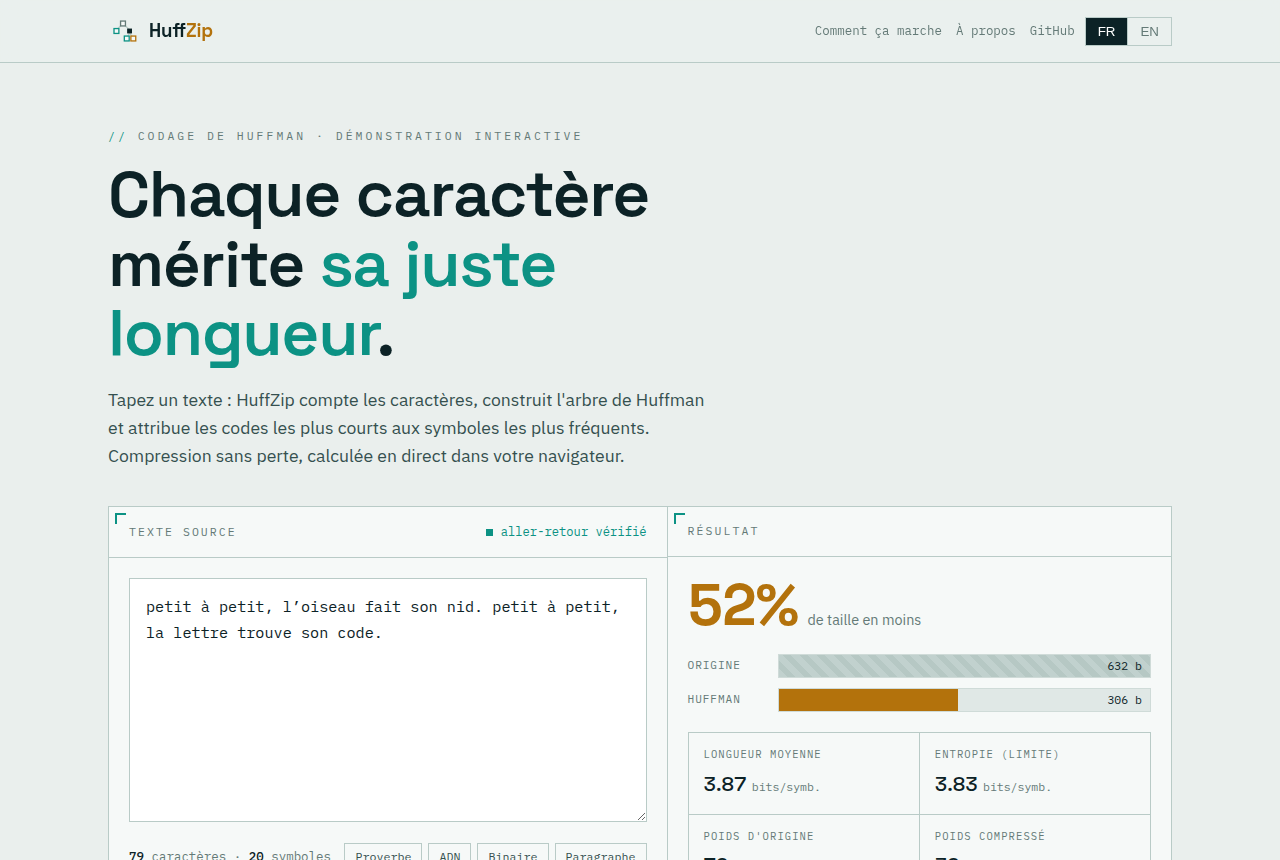
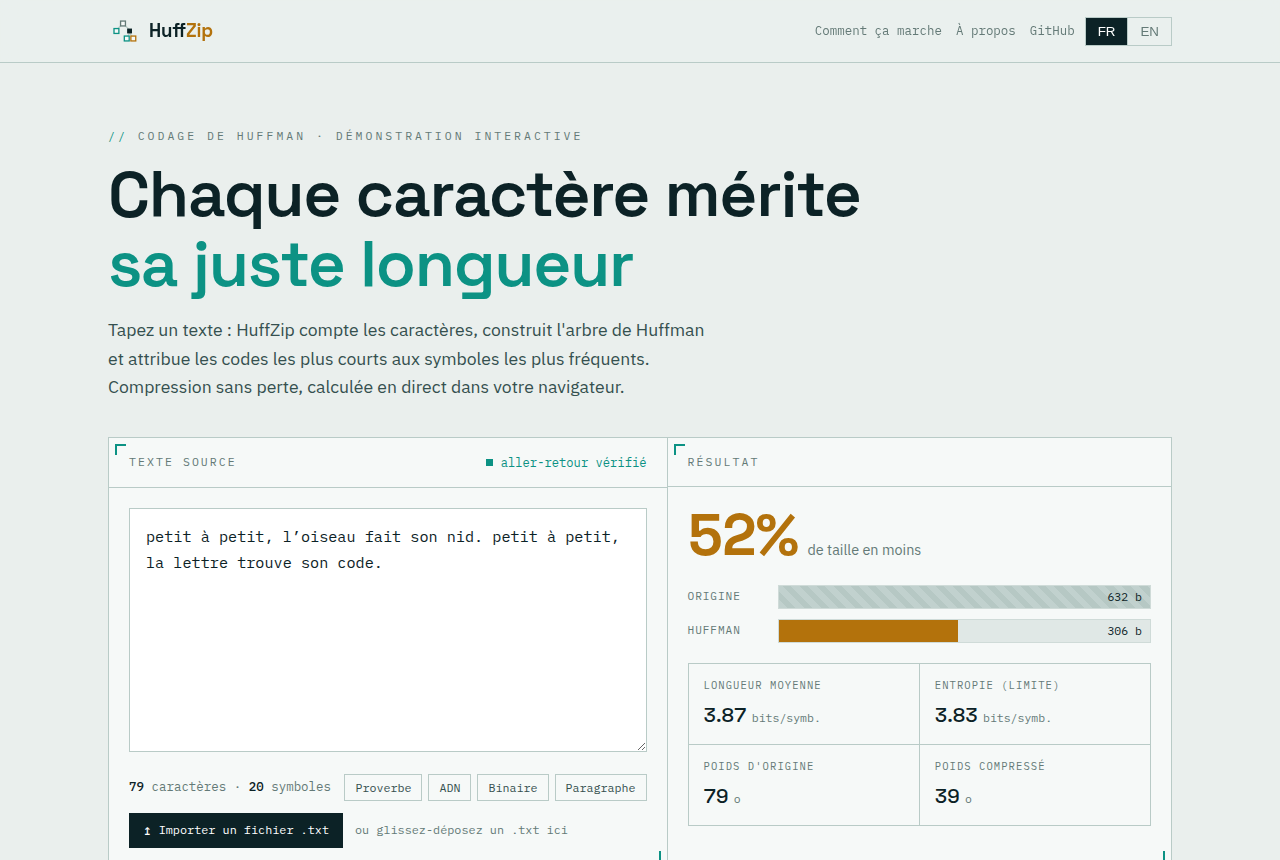
change \n

diff --git a/assets/js/app.js b/assets/js/app.js
@@ -15,7 +15,7 @@ const I18N = {
     'nav.how': 'Comment ça marche',
     'nav.about': 'À propos',
     'hero.eyebrow': 'Codage de Huffman · démonstration interactive',
-    'hero.title': 'Chaque caractère mérite <span class="accent">sa juste longueur</span>.',
+    'hero.title': 'Chaque caractère mérite<br><span class="accent">sa juste longueur</span>',
     'hero.lede': "Tapez un texte : HuffZip compte les caractères, construit l'arbre de Huffman et attribue les codes les plus courts aux symboles les plus fréquents. Compression sans perte, calculée en direct dans votre navigateur.",
     'studio.input': 'Texte source',
     'studio.readout': 'Résultat',
@@ -70,7 +70,7 @@ const I18N = {
     'nav.how': 'How it works',
     'nav.about': 'About',
     'hero.eyebrow': 'Huffman coding · interactive demo',
-    'hero.title': 'Every character earns <span class="accent">its own length</span>.',
+    'hero.title': 'Every character earns<br><span class="accent">its own length</span>',
     'hero.lede': 'Type some text: HuffZip counts the characters, builds the Huffman tree, and hands the shortest codes to the most frequent symbols. Lossless compression, computed live in your browser.',
     'studio.input': 'Source text',
     'studio.readout': 'Result',

diff --git a/index.html b/index.html
@@ -42,7 +42,7 @@
       <div class="wrap">
         <div class="hero-head">
           <p class="eyebrow" data-i18n="hero.eyebrow">Codage de Huffman · démonstration interactive</p>
-          <h1 data-i18n="hero.title">Chaque caractère mérite <span class="accent">sa juste longueur</span>.</h1>
+          <h1 data-i18n="hero.title">Chaque caractère mérite<br><span class="accent">sa juste longueur</span></h1>
           <p class="hero-lede" data-i18n="hero.lede">Tapez un texte : HuffZip compte les caractères, construit l'arbre de Huffman et attribue les codes les plus courts aux symboles les plus fréquents. Compression sans perte, calculée en direct dans votre navigateur.</p>
         </div>
 

diff --git a/assets/css/style.css b/assets/css/style.css
@@ -114,7 +114,7 @@ a { color: inherit; }
    ============================================================ */
 
 .hero { padding: 64px 0 30px; }
-.hero-head { max-width: 680px; margin-bottom: 36px; }
+.hero-head { max-width: 920px; margin-bottom: 36px; }
 .hero h1 { font-size: clamp(2.5rem, 6vw, 4.1rem); margin-bottom: 18px; }
 .hero h1 .accent { color: var(--zero); }
 .hero-lede { font-size: 1.1rem; color: var(--ink-dim); max-width: 58ch; }
